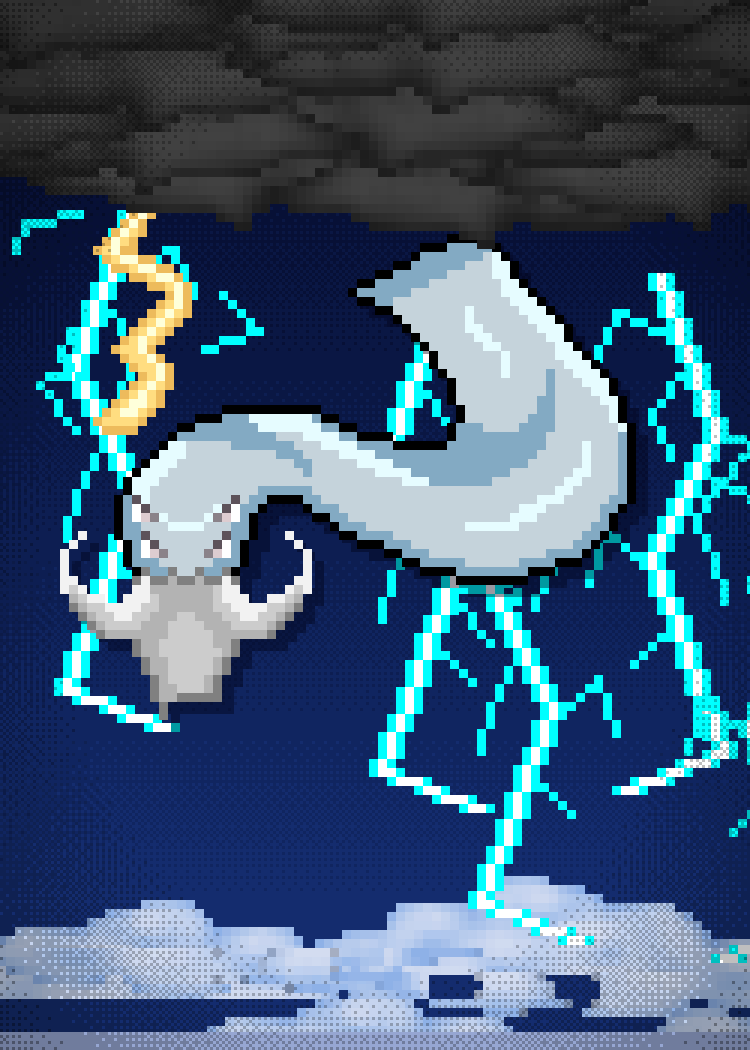
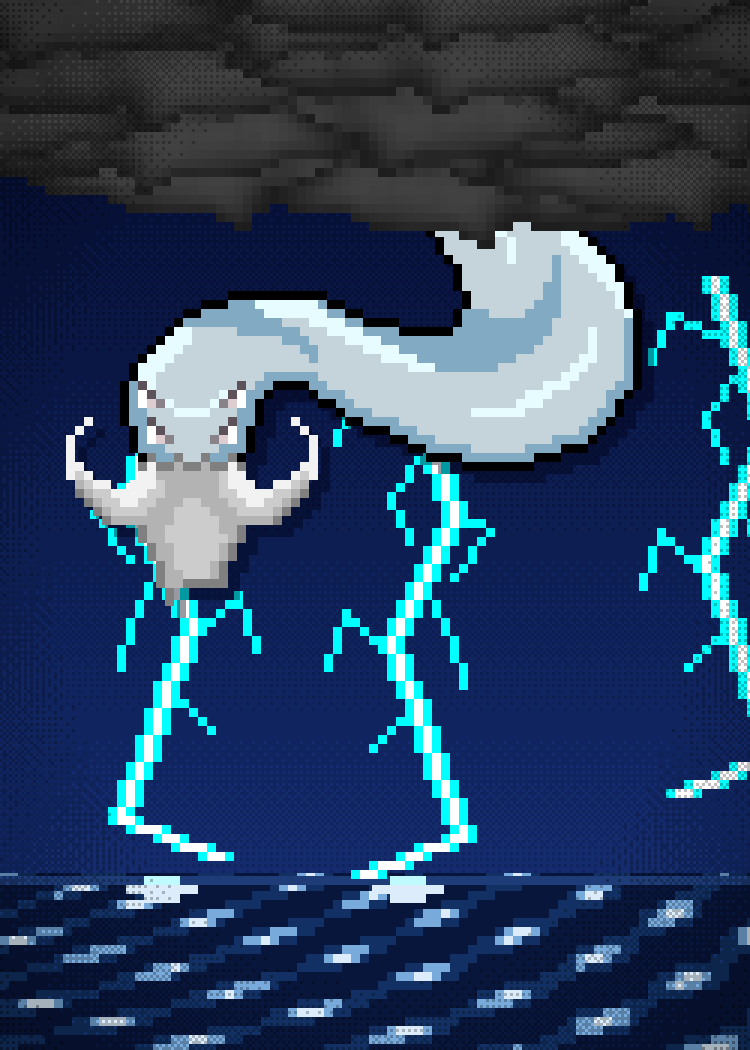
Sleeve-Entwürfe Runde 3b: Block G überarbeitet + neu 58, 59; Gesamtübersicht (60 Sleeves)
Claude-Session: https://claude.ai/code/session_01TEnvTzH2xD44R6Unjv7vDo

diff --git a/data/sleeve-proposals/runde3/generator/s59_qinglong_storm.py b/data/sleeve-proposals/runde3/generator/s59_qinglong_storm.py
@@ -1,16 +1,14 @@
 # -*- coding: utf-8 -*-
 """Sleeve 59 – „Qinglong Storm“ (Runde 3b, neu): Der Himmelsdrache Qinglong (Karte „Cardinal Beast Qinglong“)
-windet sich aus einer schwarzen Gewitterwolke herab, um ihn zucken blaue Blitze, ein goldener Blitz schlägt neben
-seinem Kopf ein; unten ein Wolkenmeer im Mondlicht.
+windet sich aus einer schwarzen Gewitterwolke herab, die blauen Blitze seiner Aura zucken bis hinab ins aufgewühlte Meer.
 
-Skalierung (Regel A): ALLES 3× – Drache, Gewitterwolke, Blitze, Wolkenmeer. Himmel Dither-Verlauf.
+Skalierung (Regel A): ALLES 3× – Drache, Gewitterwolke, Blitze, Meer (selbst gezeichnet im 3×-Raster). Himmel Dither-Verlauf.
 
 Vollständigkeit (Regel B): In der Kartenszene „Sichtbar #251“ [149] besteht der Drache aus Körper [1523] + Kopf [1524]
 (match 1.0/0.97, Blitze [1522]/[1525] davor). Ebene „QINLONG #1“ [1526] ist derselbe Drache vollständig
 (Kopf + Körper, mit geschlossener Kontur) und wird verwendet; der Schwanz verschwindet in der Wolke.
 
-Quellen (Motive.xcf): 1526 „QINLONG #1“ (Drache), 1527 „QINLONG“ (Gewitterwolke), 1525 „QINLONG #5“ (blaue Blitze),
-1522 „QINLONG #3“ (goldener Blitz), 1520 „Ebene #652“ / 1510 „Ebene #653“ (Wolken).
+Quellen (Motive.xcf): 1526 „QINLONG #1“ (Drache), 1527 „QINLONG“ (Gewitterwolke), 1525 „QINLONG #5“ (blaue Blitze).
 """
 import math
 from g_util import *
@@ -32,32 +30,33 @@ for y in range(H2):
 drag = lay(B, 1526)
 cloud = lay(B, 1527)
 bolts = lay(B, 1525)
-gold = lay(B, 1522)
-wc1, wc2 = lay(B, 1520), lay(B, 1510)
-for n, s in dict(dragon=drag, cloud=cloud, bolts=bolts, gold=gold).items():
+for n, s in dict(dragon=drag, cloud=cloud, bolts=bolts).items():
     Image.fromarray(s).save(os.path.join(xcfkit.CACHE, 'g59_%s.png' % n))
 
-# ---------------------------------------------------------------- Wolkenmeer unten (3×), vom Mond angestrahlt
-for s, x, y in ((wc1, -40, 300), (flip(wc1), 90, 292), (wc2, -10, 316), (flip(wc2), 110, 324),
-                (wc1, 30, 330), (flip(wc1), 150, 336)):
-    u = up(s, K)
-    cv.paste(tint(u, (150, 170, 220), 0.35), x, y)
-cv.rect(0, 344, W2, H2, (150, 166, 210))
+# ---------------------------------------------------------------- aufgewühltes Meer unten (selbst gezeichnet, 3×-Raster)
+SEA = 292
+for by in range(SEA // K, H2 // K + 1):
+    d = (by * K - SEA) / (H2 - SEA)
+    for bx in range(W2 // K + 1):
+        ph = bx * (0.55 - 0.25 * d) + by * 1.7
+        v = math.sin(ph) + 0.5 * math.sin(bx * 0.23 - by * 0.9)
+        c = (8, 22, 60) if v < 0.3 else (18, 48, 100) if v < 1.0 else (120, 170, 220) if v < 1.35 else (220, 236, 250)
+        cv.rect(bx * K, by * K, bx * K + K, by * K + K, c)
+cv.rect(0, SEA, W2, SEA + K, (30, 60, 120))
 
 # ---------------------------------------------------------------- Blitze hinter dem Drachen (3×)
 Bl = up(bolts, K)
-cv.paste(Bl, 12, 70)
-cv.paste(flip(Bl)[:, :120], 150, 120)
+cv.paste(flip(Bl), 30, 92)
+
+for gx in (54, 136):                                # Gischt an den Einschlagstellen
+    for i, w in enumerate((4, 8, 4)):
+        cv.rect(gx - w * K // 2, SEA + i * K, gx + w * K // 2, SEA + i * K + K, (190, 250, 255) if i == 0 else (220, 236, 250))
 
 # ---------------------------------------------------------------- Drache (3×): Schwanz oben rechts in der Wolke
 D = up(drag, K)
-dx, dy = 20, 78
+dx, dy = 22, 40
 cv.paste(silhouette(D, (0, 0, 20)), dx + 4, dy + 4, alpha=0.4)
 cv.paste(D, dx, dy)
-
-# goldener Blitz: aus der Wolke herab, schlägt links neben dem Kopf ein
-G = up(gold, K)
-cv.paste(G, 4, 40)
 
 # ---------------------------------------------------------------- Gewitterwolke oben (3×), verschluckt den Schwanz
 C = up(cloud, K)                                   # 402×117

diff --git a/data/sleeve-proposals/runde3/generator/s39_inferno.py b/data/sleeve-proposals/runde3/generator/s39_inferno.py
@@ -3,18 +3,19 @@
 Felsvorsprung; hinter ihm steigt über dem Lavasee der Dämon aus „Demons Gate“ mit weit ausgebreiteten Flügeln
 auf (Flügel laufen aus dem Bild). Klare Tiefenstaffelung wie in „Count of the Deep“:
   vorne   Dante + Felsvorsprung            5×
-  Mitte   Dämon + Flügel, Lavasee, Flammen 3×
+  Mitte   Dämon + Flügel, Lavasee, Flamme  3×
   hinten  Höhlenhimmel (Dither-Verlauf, selbst erstellt)
 
 Vollständigkeit (Regel B): Die Ebene „DANTE“ [503] (und ihre Kopien 501/502) zeigt Dante ohne Arme. Gesucht
 über alle Ebenen der Datei (Palette/Template-Abgleich, nicht nur Nachbarebenen): Ebene „Ebene #727“ [270]
-ist der vollständige Dante mit Ärmeln und Händen (liegt weit entfernt im Stapel bei „Masters Order“);
-Kopf, Umhang, Gürtel stimmen pixelgleich mit [503] überein. Verwendet wird daher [270].
+(weit oben im Stapel, bei „Masters Order“) ist der vollständige Dante mit Ärmeln und Händen; Haare, Umhang,
+Schärpe und Gürtel entsprechen [503] (Mund geöffnet). Verwendet wird daher [270].
 Der Dämon ist „Demons Gate“ [1496] + Flügel „Demons Gate #2“ [1497], genau so wie in der Kartenszene
 „Sichtbar“ [116] zusammengesetzt (gleiches Koordinatensystem).
 
 Quellen (Motive.xcf): 270 „Ebene #727“ (Dante komplett), 1496 „Demons Gate“, 1497 „Demons Gate #2“ (Flügel),
-1536 „Fireball #3“ (Flammen), 1550 „Lava“ (Lavasee-Textur), 1044 „Hell“ (Felstextur).
+1536 „Fireball #3“ (Flamme). Lavasee und Felsvorsprung selbst gezeichnet (Regel D) in der Palette von
+1550 „Lava“ bzw. 1044 „Hell“.
 """
 import math
 from g_util import *

diff --git a/data/sleeve-proposals/runde3/notes_G.md b/data/sleeve-proposals/runde3/notes_G.md
@@ -1,13 +1,19 @@
-# Block G – Sleeves 39–45 (Quelle: Motive.xcf)
+# Block G – Sleeves 39–45, 58, 59 (Quelle: Motive.xcf) – Stand Runde 3b
 
-NN | Titel | Idee | Quellen
----|---|---|---
-39 | Inferno | Schräger Blick in den Höllentrichter: konzentrische, nach unten engere Terrassen. Am Rand Dante und ein Horned Demon als Torwächter, im Ersten Kreis (grauer Fels) die drei kahlen Seelen, im Zweiten Kreis (violettes Herzfries-Mauerwerk) ein Mädchen aus „Second Circle“ und der wandernde Dante, am Grund der Dämon aus „Demons Gate“ zwischen Flammen im Lavasee | Motive: First Circle [496], Second Circle [403], DANTE [503], Horned Demon [573], Demons Gate [1496], Fireball #3 [1536]; Texturen Hell [1044], Ebene #524 [510], Ebene #605 [404], Lava [1550]
-40 | Angel's Mirror | Wie eine Spielkarte (Hofkarte): oben der Guardian Angel über der Betenden zwischen Engelsstatuen vor blauem Wolkenhimmel mit Strahlenkranz, unten um 180° gedreht der Undead Guardian Angel vor dem roten Himmel mit schwarzen Wolken (dasselbe Wolkenbild), die beiden Heiligenscheine als Eck-Indizes | Motive: Guardian Angel [1058], Undead Guardian Angel [729] (Gesicht aus Sichtbar #61 [728] ergänzt), Ebene #11 [1530], Ebene #12 [1500]
-41 | Graveyard Gig | Friedhofskonzert bei Vollmond: vorne der Skeleton Bard (5×), dahinter die Skelettband in blauen Jacketts (Ritterhelm mit roter E-Gitarre, Gehörnter mit Laute, Chor hinter Grabsteinen), Noten, zwei Scheinwerferkegel, Grabsteine als Rampe | Motive: Skeleton Bard [370], Ebene #618 [1223], Ebene #557 (Gitarre) [670], Harpyformer Band #2 (Laute) [20], Ebene #657 (Noten) [369], Grabstein [75], Dark Land [1286], Ebene #522 [494]
-42 | Slime Drive | Der Slime Rancher (5×) treibt seine Herde in einer S-Kurve den Waldweg herunter: Hardy, Fiery, Icy, Sparky, Rocky, Slimy, Darky, vorneweg der gekrönte Shiny Slime; der Cloudy Slime flattert daneben | Motive: Slime Rancher [456], Shiny/Hardy/Slimy/Cloudy/Rocky/Fiery/Icy/Sparky/Darky Slime [447, 449, 454, 459, 462, 466, 469, 532, 535], Wald [1142] (2×)
-43 | Cybug Collection | Insekten-Schaukasten: die mechanischen Cybugs als Präparate auf rotem Samt mit Goldborte im Holzrahmen hinter Glas (BEE groß oben, SCARAB, LADYBUG, CENTIPEDE), Schatten auf dem Samt, schräge Glasreflexe | Motive: Cybug BEE [387], Cybug SCARAB [393], Cybug LADYBUG [1342] (halbtransparente Flügel gedithert), Cybug CENTIPEDE [390], Thieving #3 (Samt) [1188], Trade #2 (Holz) [1157]
-44 | Dragon's Hoard | Stillleben in der dunklen Schatzkammer: das glühende Flaming Dragonegg (4×) liegt eingebettet im Goldberg, davor die sieben Edelsteine mit farbigem Schein, Truhe und Geldsäcke – und ein grinsender Mimic; steinerne Wandfratzen an der Ziegelwand | Motive: Flaming Dragonegg [2], Mimic [914], Wealth #2 [1378], Wealth [1379], Treasure Chest [1386], Ruby/Emerald/Sapphire/Topaz/Cobalt/Amethyst/Amber [1171–1184], Schatzgrotte [1081]
-45 | Last Round | Gruppenbild in der Taverne: hinter der Theke Wirt und blonde Kellnerin vor Gläserregal, Flaschen und Ofen; davor prostet Chuck mit dem Bierkrug, Kohta mit Glas (seine Flasche steht auf der Theke), rechts der Alte mit dem Schwert | Motive: Ebene #213 (Tavernenraum) [1010], Lilly #7 (Theke) [987], Chuck #2 (Krüge) [988], Chuck #1 [991], Haste #5 [992], Chuck [982], Old Couple [999], Kohta #3 [1007]
+NN | Titel | Idee | Quellen | Skalierung
+---|---|---|---|---
+39 | Inferno | Neu komponiert: Dante (vollständig, mit Armen) steht vorne rechts auf einem Felsvorsprung, hinter ihm steigt der Dämon aus „Demons Gate“ mit riesigen, aus dem Bild laufenden Flügeln aus dem glühenden Lavasee; eine Flamme am Ufer, Höhlenhimmel. Regel B: DANTE [503] hat keine Arme – der komplette Dante ist „Ebene #727“ [270] (weit oben im Stapel), über Paletten-/Template-Suche in der ganzen Datei gefunden | Motive: Ebene #727 [270], Demons Gate [1496] + Demons Gate #2 (Flügel) [1497] wie in Szene [116], Fireball #3 [1536]; Lavasee/Fels selbst gezeichnet (Paletten von Lava [1550], Hell [1044]) | Dante + Felsvorsprung 5× (vorne); Dämon, Flügel, Lavasee, Flamme 3× (Mitte); Himmel Dither
+40 | Angel's Mirror | Neu: Der Guardian Angel schwebt im Strahlenkranz über einem stillen See – sein Spiegelbild im Wasser zeigt den Undead Guardian Angel (gespiegelt, leicht gewellt, mit Wasser überblendet). Große Figur statt kleiner Doppelkarte, keine dunkle Bildhälfte | Motive: Guardian Angel [1058] (freistehender Engel, ganze Figur), Undead Guardian Angel [729] + Gesicht aus Sichtbar #61 [728], Unterkörper = Unterkörper des Guardian Angel umgefärbt; Wolken Ebene #652 [1520], Ebene #653 [1510] | Engel + Spiegelbild 5×; Wolken, Uferlinie 3× (weit hinten); Himmel/Strahlen/Wasser Dither
+41 | Raise the Minions | Ersetzt das Konzert „Graveyard Gig“ (Doppelung): Rückenansicht des Totenbeschwörers im roten Umhang, vor ihm steigen auf dem nächtlichen Friedhof seine drei Skelett-Diener zwischen den Grabsteinen aus der aufgebrochenen Erde, grünes Grablicht, kahle Bäume | Motive: Raise the Minions [756], Ebene #375 (Skelette) [757] – beide 1.0 in Sichtbar #54 [755]; Grabsteine Ebene #711 [1229], Ebene #368 [770], Skele Archer #2 [75] | Beschwörer 5× (vorne); Skelette, Grabsteine, Erdhügel, Grablicht 3× (Mitte); Hügel/Bäume 3×-Silhouette; Himmel Dither
+42 | Slime Drive | Überarbeitet: Der Slime Rancher treibt seine Herde auf dem Waldweg auf uns zu – dicht gedrängt Darky, Slimy, Rocky, Icy, Sparky, Fiery, Hardy, vorneweg der gekrönte Shiny Slime, Cloudy Slime flattert darüber; alles in der Draufsicht der Spielkarte | Motive: Slime Rancher [456], Shiny/Hardy/Slimy/Cloudy/Rocky/Fiery/Icy/Sparky/Darky Slime [447, 449, 454, 459, 462, 466, 469, 532, 535], Wald [1142] | ALLES 3× (Waldkarte, Slimes, Rancher)
+43 | Cybug Collection | UNVERÄNDERT (Liebling des Nutzers) | – | –
+44 | Dragon's Hoard | Überarbeitet: Stillleben in der dunklen Schatzkammer, das glühende Flaming Dragonegg eingebettet im Goldberg erhellt die Ziegelwand; links Truhe, rechts lauernder Mimic, vorne fünf Edelsteine mit farbigem Schein | Motive: Flaming Dragonegg [2], Mimic [914], Wealth #2 [1378], Treasure Chest [1386], Ruby/Sapphire/Emerald/Amethyst/Topaz [1171, 1175, 1173, 1181, 1177] + Leucht-Ebenen, Schatzgrotte [1081] (Ziegel) | ALLES 3× (Ei, Mimic, Truhe, Gold, Edelsteine, Ziegelwand); Schein fein gedithert
+45 | Last Round | Überarbeitet: Tavernenbild aus der Raumkarte – Gläser-/Flaschenregal, dahinter Wirt und blonde Kellnerin hinter der Theke (Krüge, Kohtas Flasche), davor Chuck mit dem Bierkrug, Kohta mit Glas, rechts der Alte mit dem langen Bart auf seinem Stuhl | Motive: Ebene #213 (Tavernenraum) [1010], Chuck #1 [991], Haste #5 [992], Chuck [982], Old Couple [999], Kohta #3 [1007] (Kohta, Stuhl, Flasche), Chuck #2 (Krüge) [988] | ALLES 3× (Raum, alle Figuren, Krüge, Flasche) – vorher 2×/3×/4× gemischt
+58 | Mammoth Trek | Neu: Eiszeit – ein Wollmammut stapft groß durchs Schneetreiben über die Schneeebene, am Horizont schneebedeckte Berge im Abendlicht, vorne eine Schneewehe | Motive: Ebene #367 [773] (Mammut; in Sichtbar #51 nur mit Bewegungsunschärfe „Whoolmoth“ [774] überlagert); Landschaft selbst gezeichnet | ALLES 3× (Mammut, Schnee, Berge, Flocken); Himmel Dither
+59 | Qinglong Storm | Neu: Der Himmelsdrache Qinglong windet sich aus der schwarzen Gewitterwolke herab, die blauen Blitze seiner Aura zucken hinab ins aufgewühlte Nachtmeer | Motive: QINLONG #1 [1526] (vollständiger Drache; Kartenszene Sichtbar #251 [149] zeigt Körper [1523] + Kopf [1524]), QINLONG [1527] (Gewitterwolke), QINLONG #5 [1525] (Blitze); Meer selbst gezeichnet | ALLES 3× (Drache, Wolke, Blitze, Meer); Himmel Dither
 
-Hilfsfunktionen: generator/g_util.py (Rahmen, gespiegeltes Kacheln, Dither-Überblendung, Schatten). Sprites: generator/sprites3/g39_…–g45_….
+Hilfsfunktionen: generator/g_util.py – neu in 3b: `fig_layers` (alle Ebenen der Datei, die in einem Szenen-Ausschnitt
+sichtbar sind, nicht nur Nachbarebenen), `find_in_scenes` (maskiertes Template-Matching eines Sprites in allen
+„Sichtbar“-Abzügen – die Abzüge sind oft nicht positionsgleich mit den Ebenen), `diff_vs_scene`, `zoomsave`.
+Sprites: generator/sprites3/g39_…–g59_….
+Entfernt: 41_skeleton_gig.png / s41_skeleton_gig.py (ersetzt durch 41_raise_the_minions).

diff --git a/data/sleeve-proposals/runde3/README.md b/data/sleeve-proposals/runde3/README.md
@@ -1,4 +1,4 @@
-# Sleeve-Entwürfe – Runde 3 (50 Stück)
+# Sleeve-Entwürfe – Runde 3 (60 Stück)
 
 Alle Motive sind aus den xcf-Ebenen des Repos **PixelPartiesSprites** gebaut (Figuren pixelgenau, ganzzahlig
 skaliert); Hintergründe stammen aus den xcf-Dateien oder sind schlichte, selbst geditherte Verläufe in Spielfarben.
@@ -15,6 +15,11 @@ mit Idee und Quellen je Sleeve.
 | 33–38 | F | MotiveGN, MotiveArcanum (+ Motive) |
 | 39–45 | G | Motive |
 | 46–50 | H | MotiveBritain, MotiveCoolhalla, MotiveDeri, MotiveIndia, MotiveEgypt |
+| 51–60 | A–H | Runde 3b: zehn neue (51 A, 52 B, 53 C, 54 D, 55–56 E, 57 F, 58–59 G, 60 H) |
+
+Runde 3b: alle Sleeves außer den Nutzer-Favoriten 07, 13, 34 und 43 nach den Regeln in `BRIEF.md`
+(„Runde 3b“: einheitliche Pixelgröße, vollständige Figuren, korrekte Positionierung, eigene Effekte)
+überarbeitet; die Notizdateien nennen pro Sleeve die Skalierung.
 
 ## Generator
 `generator/sNN_*.py` erzeugt jeweils ein Sleeve (aus `generator/` ausführen). `common.py` bindet die Werkzeuge
